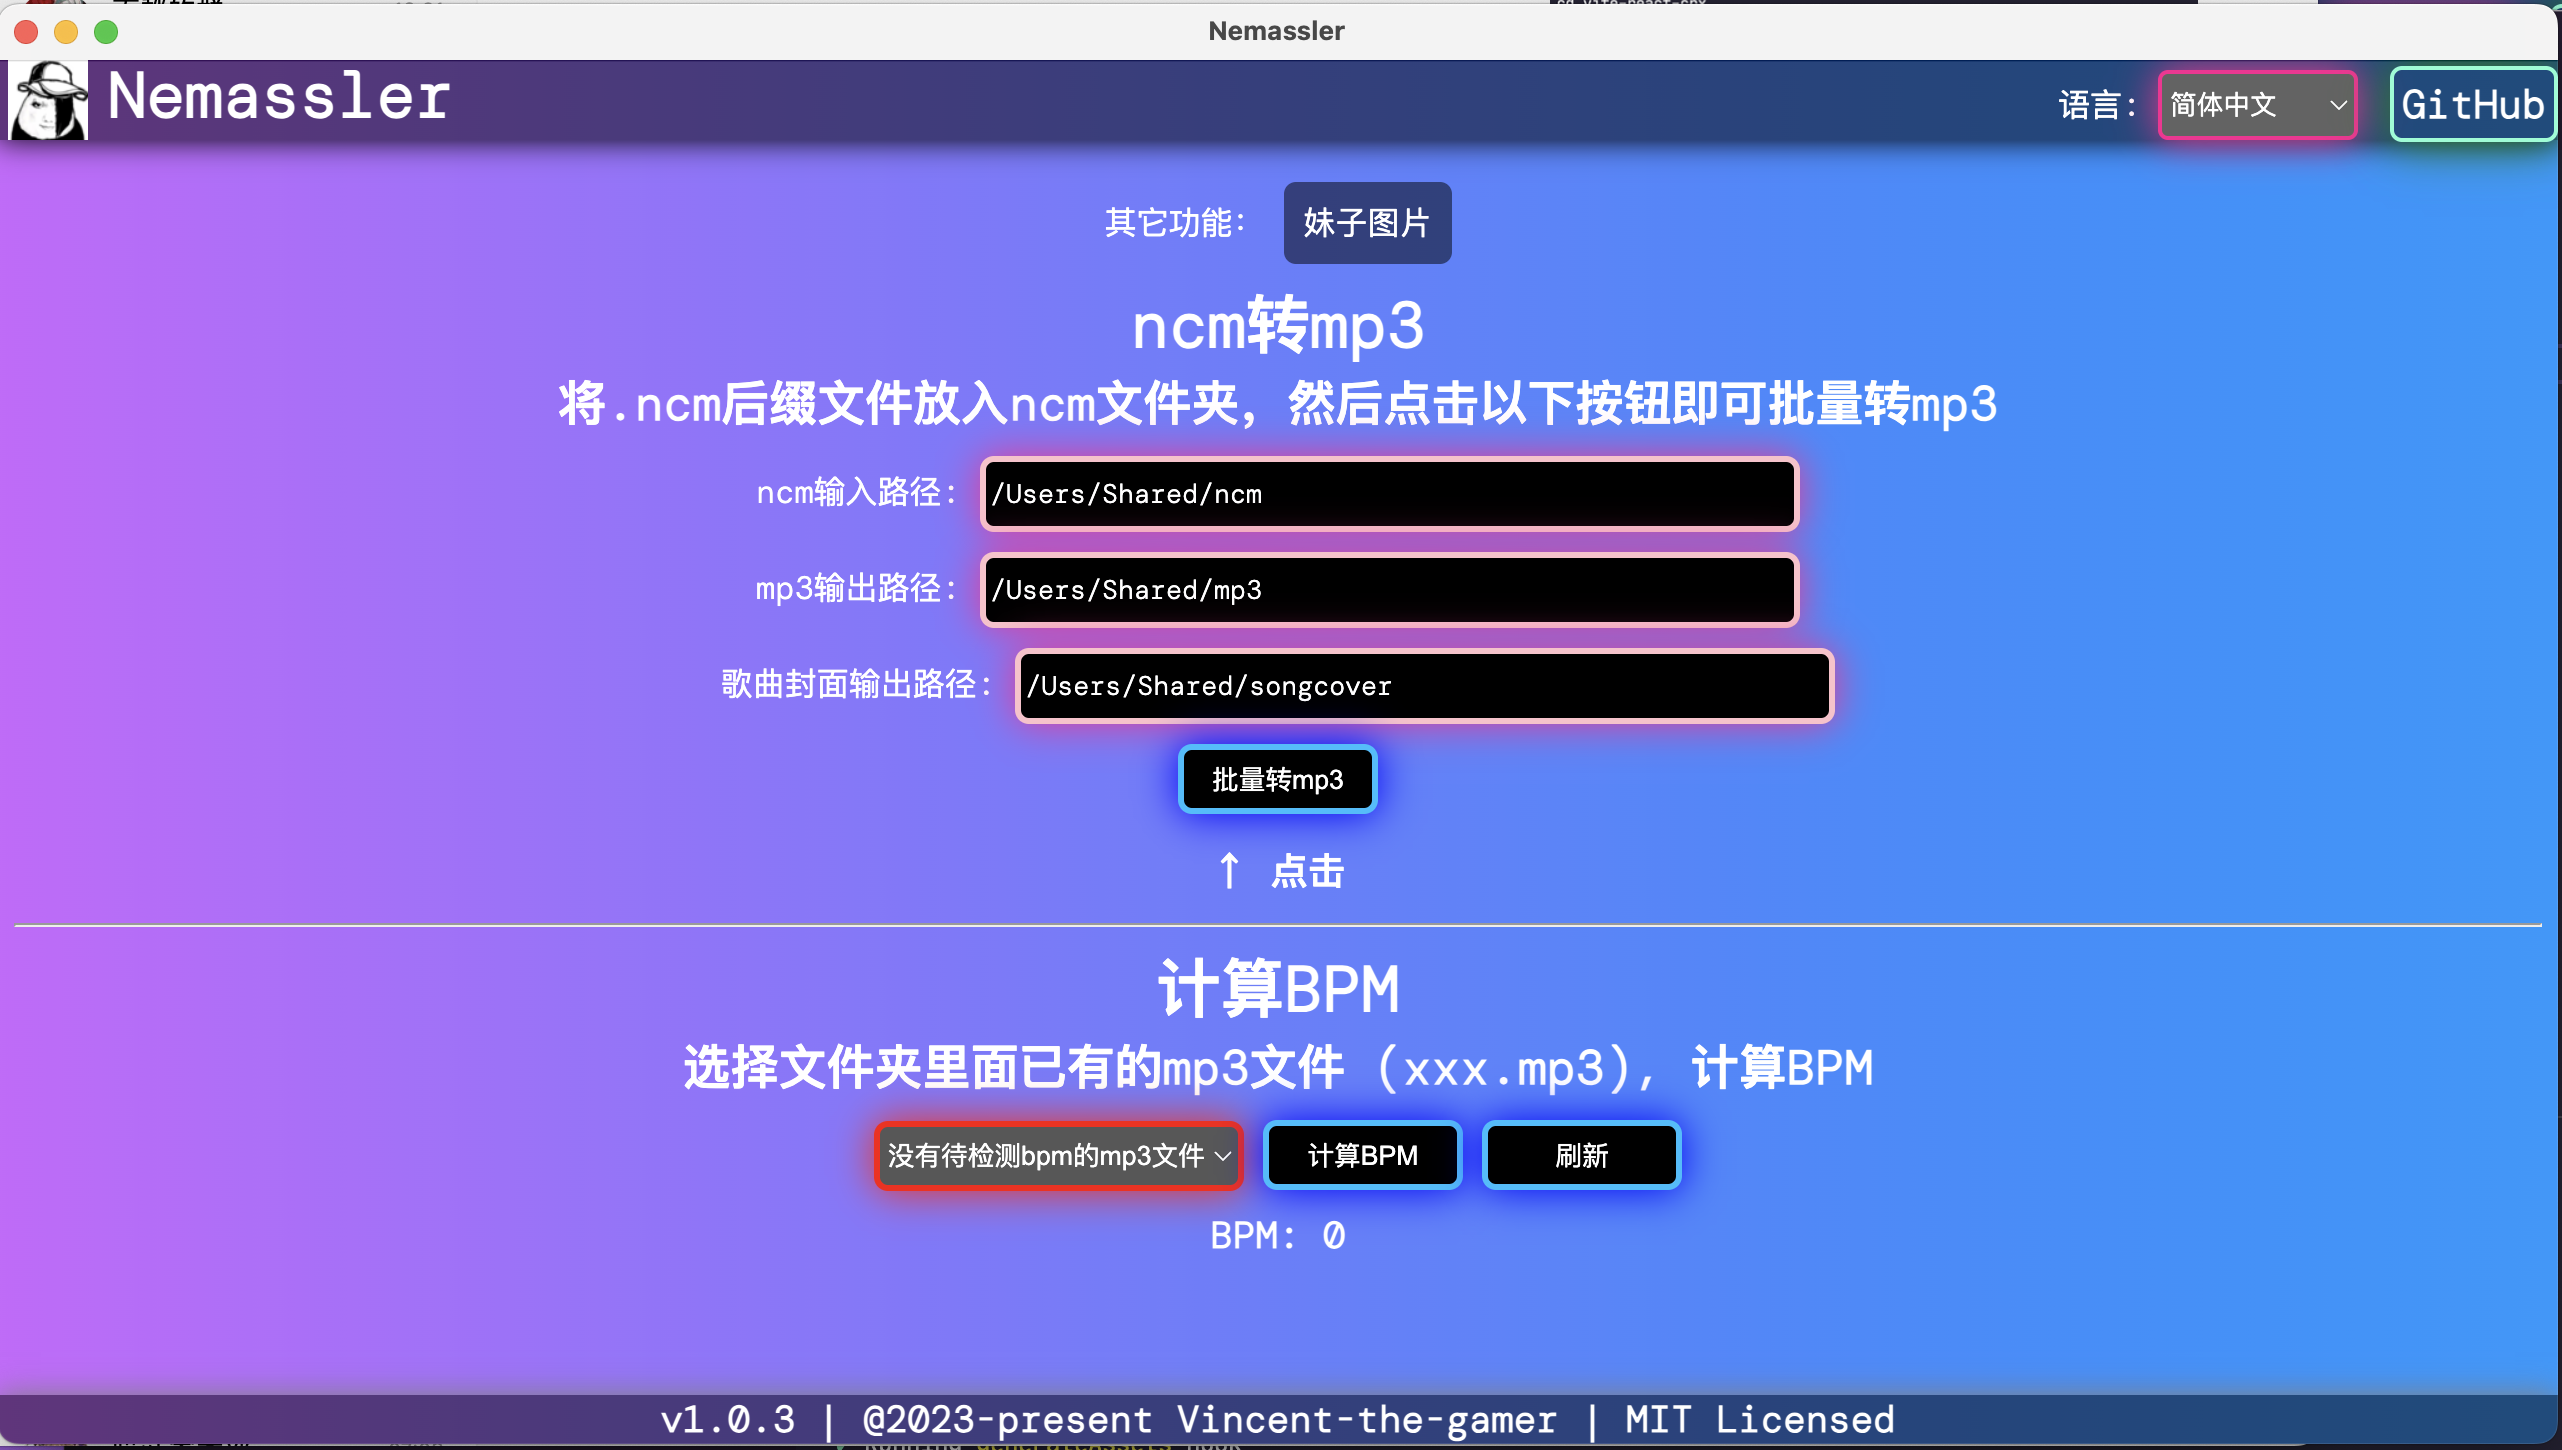
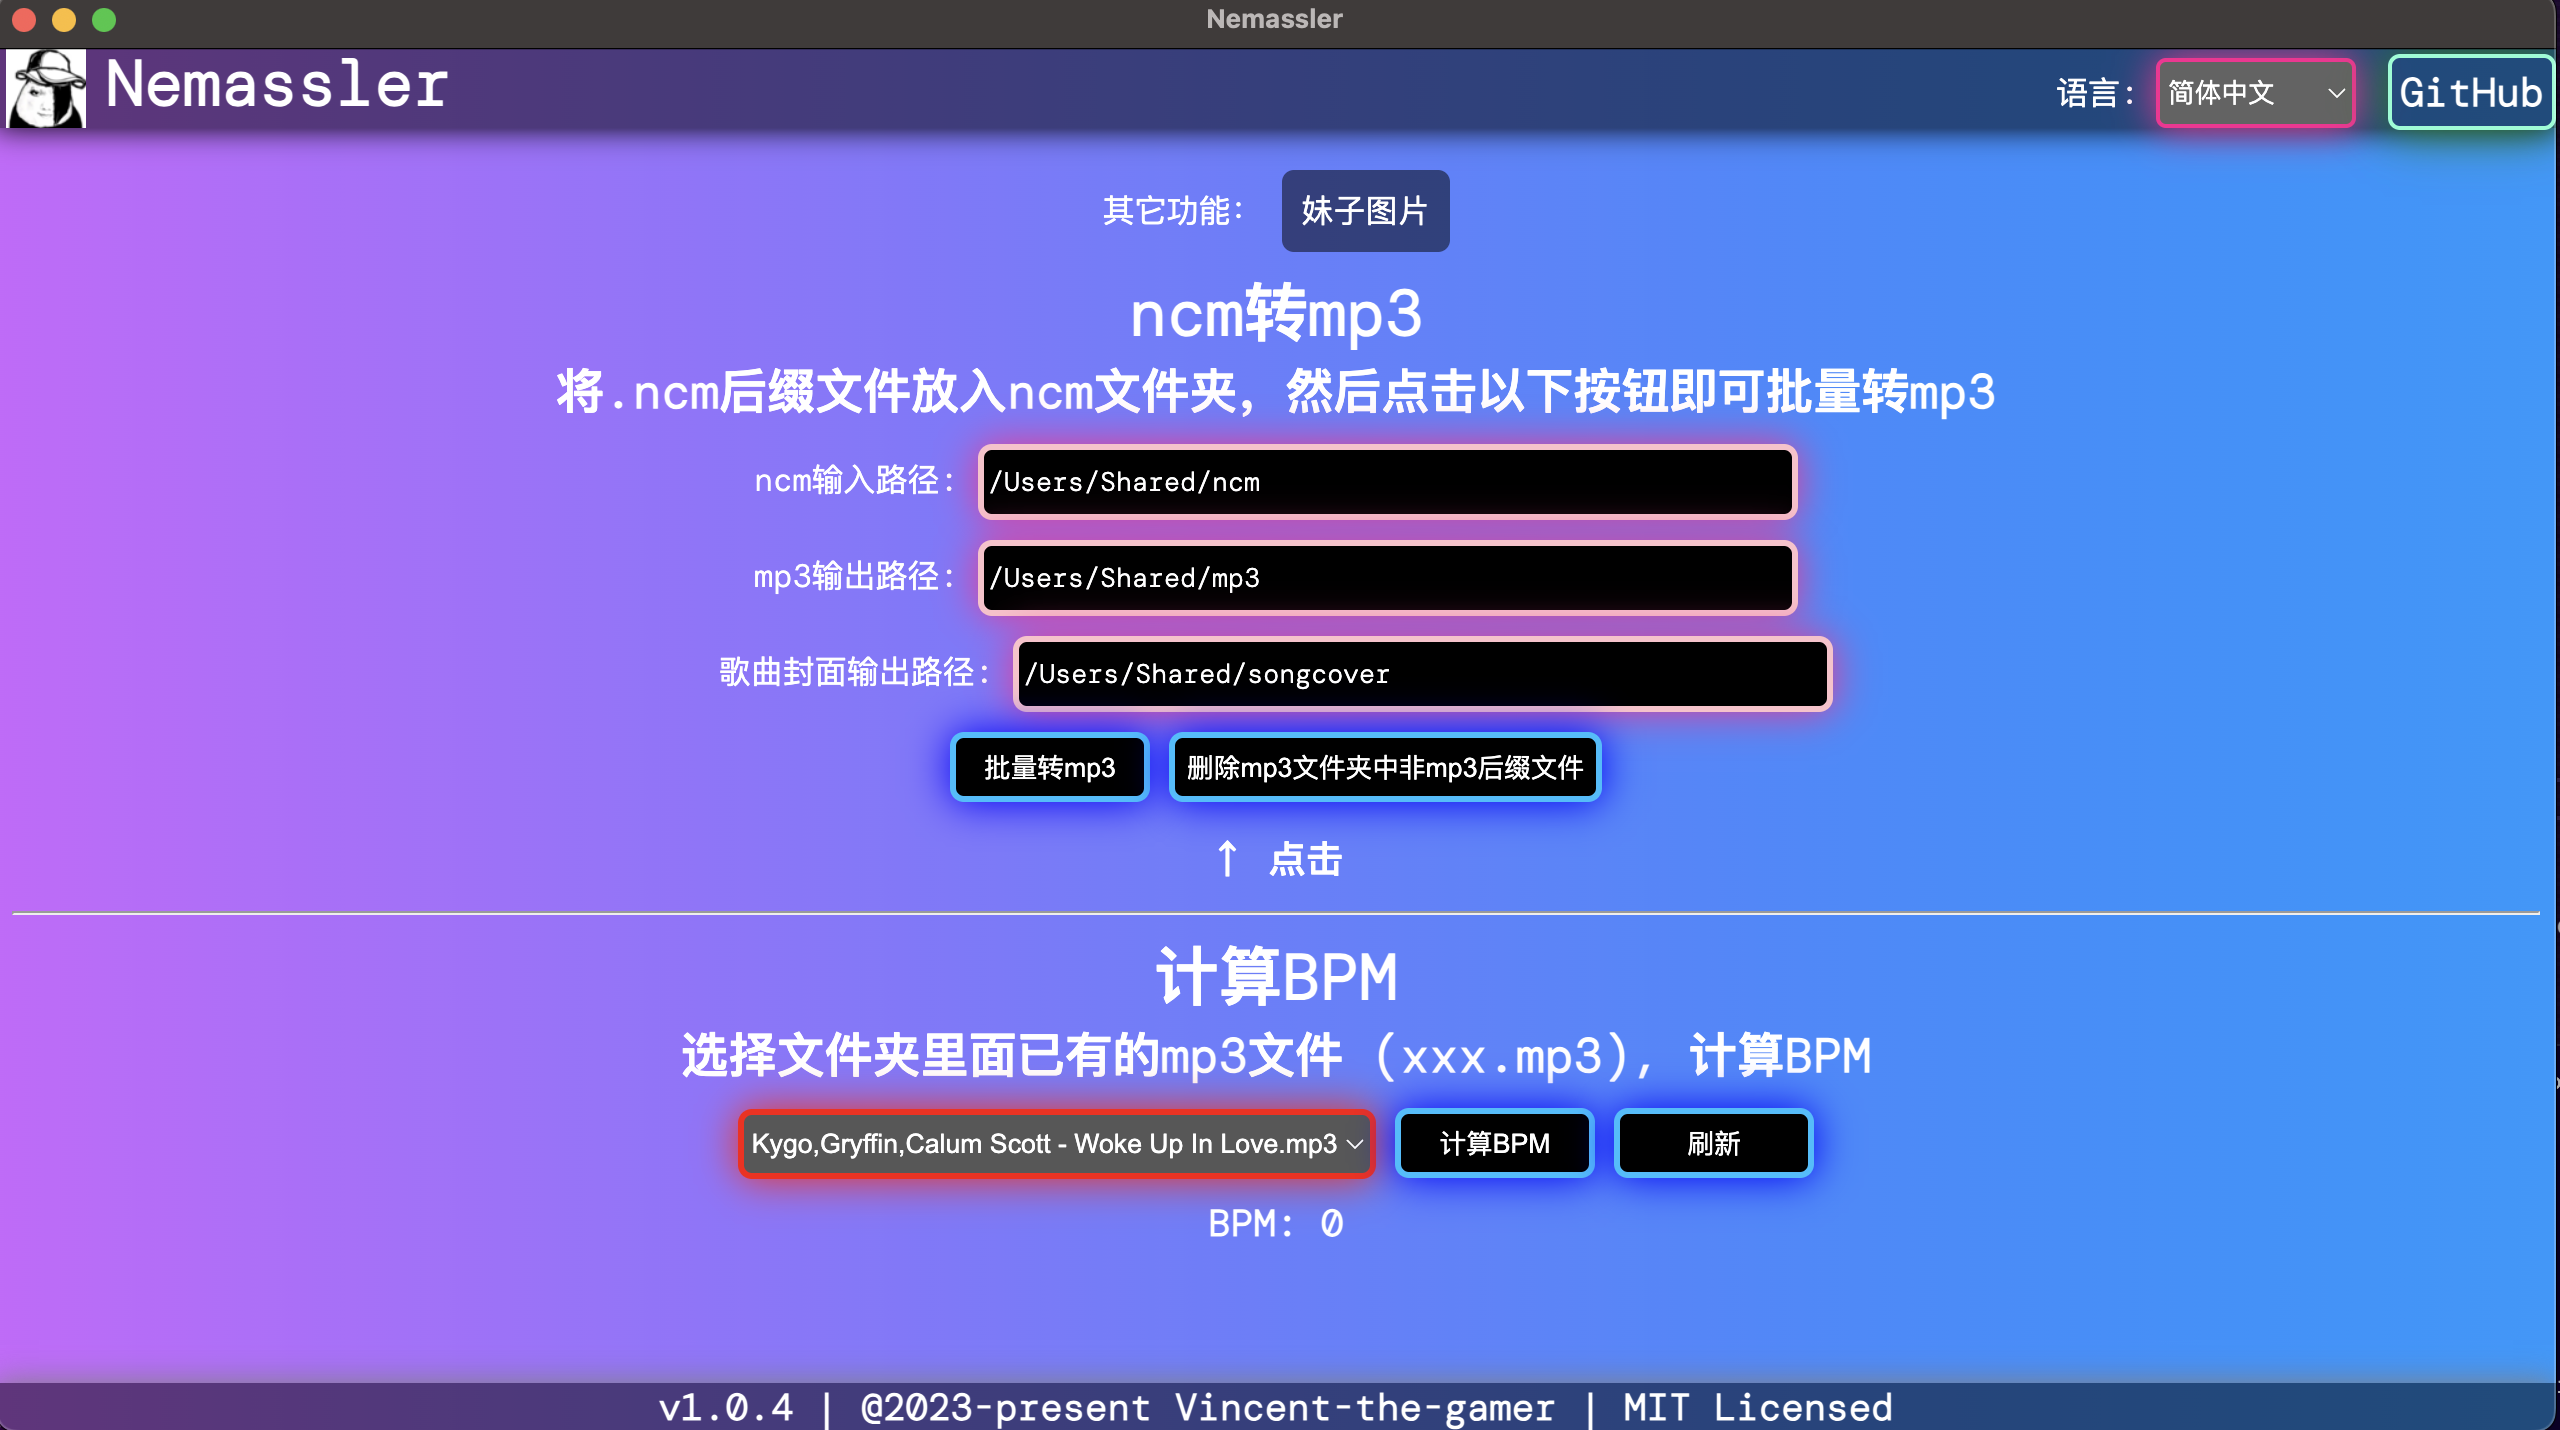
fix: bugs.

diff --git a/app.ts b/app.ts
@@ -1,49 +1,51 @@
 /**
  * Main Service
  */
-import path from "path"
-import express from "express"
-import readFiles from "./readFiles"
-import { ensureDirectoryExists, filterMp3 } from "./fileUtils"
-import axios from "axios"
-import ncm2mp3CustomDirectory from "./ncm2mp3"
+// @ts-ignore
+const path = require("path")
+const express = require("express")
+const readFiles = require("./readFiles.ts")
+// @ts-ignore
+const fileUtils = require("./fileUtils.ts")
+const axios = require("axios")
+const ncm2mp3 = require("./ncm2mp3.ts")
 
-const app = express()
+const expressApp = express()
 
-app.use( express.json() )
-app.use( express.urlencoded({ extended: false }) )
-app.use( express.static(
+expressApp.use(express.json())
+expressApp.use(express.urlencoded({ extended: false }))
+expressApp.use(express.static(
     path.resolve(__dirname, "./frontend/dist")
 ))
 
 /**
  * Cross Origin
  */
-app.all("*", (req: any, res: any, next: Function) => {
-    res.header("Access-Control-Allow-Origin","*");
+expressApp.all("*", (req, res, next) => {
+    res.header("Access-Control-Allow-Origin", "*");
     res.header("Access-Control-Allow-Headers", "Content-Type,XFILENAME,XFILECATEGORY,XFILESIZE");
-    res.header("Access-Control-Allow-Methods","PUT,POST,GET,DELETE,OPTIONS");
-    res.header("X-Powered-By",' 3.2.1');
+    res.header("Access-Control-Allow-Methods", "PUT,POST,GET,DELETE,OPTIONS");
+    res.header("X-Powered-By", ' 3.2.1');
     next();
 });
 
 
 // ncm to mp3
-app.post("/customNcm2mp3", async (req: any, res: any) => {
-    try{
+expressApp.post("/customNcm2mp3", async (req, res) => {
+    try {
         Promise.all([
-            ensureDirectoryExists(req.body.ncmDir),
-            ensureDirectoryExists(req.body.mp3OutDir),
-            ensureDirectoryExists(req.body.songCoverOutDir)
-        ]).then(([r1,r2,r3]) => {
-            ncm2mp3CustomDirectory(
+            fileUtils.ensureDirectoryExists(req.body.ncmDir),
+            fileUtils.ensureDirectoryExists(req.body.mp3OutDir),
+            fileUtils.ensureDirectoryExists(req.body.songCoverOutDir)
+        ]).then(([r1, r2, r3]) => {
+            ncm2mp3.ncm2mp3CustomDirectory(
                 req.body.ncmDir,
                 req.body.mp3OutDir,
                 req.body.songCoverOutDir
             )
         })
     }
-    catch(err){
+    catch (err) {
         res.send({
             code: 500,
             err
@@ -57,8 +59,8 @@ app.post("/customNcm2mp3", async (req: any, res: any) => {
 })
 
 // scan mp3 folder
-app.get("/readFiles",async (req: any, res: any) => {
-    const files = await readFiles(
+expressApp.get("/readFiles", async (req, res) => {
+    const files = await readFiles.readFiles(
         req.query.mp3Dir,
         req.query.ncmDir,
         req.query.songCoverDir
@@ -69,33 +71,33 @@ app.get("/readFiles",async (req: any, res: any) => {
 })
 
 // read mp3 file
-app.get("/getMp3File", (req: any, res: any) => {
+expressApp.get("/getMp3File", (req, res) => {
     const filePath = req.query.filePath
     res.sendFile(filePath)
 })
 
 // get anime girls picture
-app.post("/meizi", (req: any, res: any) => {
+expressApp.post("/meizi", (req, res) => {
     const { isR18, num, author_uuid, keyword, tag } = req.body
-    let url: string = `https://sex.nyan.xyz/api/v2?r18=${isR18}&num=${num}`
+    let url = `https://sex.nyan.xyz/api/v2?r18=${isR18}&num=${num}`
 
     author_uuid && (url += `&author_uuid=${author_uuid}`)
     keyword && (url += `&keyword=${keyword}`)
     tag && (url += `&tag=${tag}`)
-    
-    axios.get(url).then(({data}) => {
+
+    axios.get(url).then(({ data }) => {
         res.send(data)
     })
 })
 
 // filter mp3
-app.post("/filterMp3", async (req: any, res: any) => {
+expressApp.post("/filterMp3", async (req, res) => {
     const { directory } = req.body
-    const result = await filterMp3(directory)
+    const result = await fileUtils.filterMp3(directory)
     res.send(result)
 })
 
-app.listen(8080, () => {
+expressApp.listen(8080, () => {
     console.log("Server started at: http://127.0.0.1:8080")
 })
 

diff --git a/ncm2mp3.ts b/ncm2mp3.ts
@@ -1,13 +1,15 @@
 /**
  * netease music .ncm audio to mp3
  */
-import fs from "fs"
-import aes from "aes-js"
-import path from "path"
+// @ts-ignore
+const fs = require("fs")
+const aes = require("aes-js")
+// @ts-ignore
+const path = require("path")
 
 // 前置文件检查
-async function preCheck(ncmDir): Promise<any>{
-    return new Promise<void>((resolve, reject) => {
+async function preCheck(ncmDir){
+    return new Promise((resolve, reject) => {
         // 删除 macOS .DS_Store 文件
         if(fs.existsSync(ncmDir + "/.DS_Store")){
             fs.unlink(ncmDir + "/.DS_Store", (err) => {
@@ -33,11 +35,11 @@ async function preCheck(ncmDir): Promise<any>{
             })
         }
 
-        resolve()
+        resolve("")
     })
 }
 
-export default async function ncm2mp3CustomDirectory (ncmDir: string, mp3OutDir: string, songCoverOutDir: string) {
+module.exports.ncm2mp3CustomDirectory = async (ncmDir, mp3OutDir, songCoverOutDir) => {
     preCheck(ncmDir).then(success => {
         fs.readdir(path.resolve(__dirname, ncmDir), function (err, files) {
             files.forEach(v => {
@@ -133,7 +135,7 @@ export default async function ncm2mp3CustomDirectory (ncmDir: string, mp3OutDir:
                     const box = buildKeyBox(trimKeyData);
         
                     let n = 0x8000;
-                    let fmusic: Buffer[] = [];
+                    let fmusic = [];
                     while (n > 1) {
                         const buffer = Buffer.alloc(n);
                         n = file.copy(buffer, 0, globalOffset, globalOffset + n);
@@ -143,7 +145,7 @@ export default async function ncm2mp3CustomDirectory (ncmDir: string, mp3OutDir:
                             let j = (i + 1) & 0xff;
                             buffer[i] ^= box[(box[j] + box[(box[j] + j) & 0xff]) & 0xff];
                         }
-        
+                        // @ts-ignore
                         fmusic.push(buffer);
                     }
                     fs.writeFileSync(path.resolve(__dirname, mp3OutDir) + "/" + v.replace(/.ncm/, '.mp3'), Buffer.concat(fmusic));

diff --git a/readFiles.ts b/readFiles.ts
@@ -1,12 +1,15 @@
-import fs from "fs"
-import path from "path"
-import { ensureDirectoryExists } from "./fileUtils"
+// @ts-ignore
+const fileUtils = require("./fileUtils.ts")
+// @ts-ignore
+const fs = require("fs")
+// @ts-ignore
+const path = require("path")
 
-export default async function readFiles(mp3Dir: string, ncmDir: string, songCoverOutDir: string) {
+module.exports.readFiles = async (mp3Dir, ncmDir, songCoverOutDir) => {
     // ensure directories exist
-    await ensureDirectoryExists(mp3Dir)
-    await ensureDirectoryExists(ncmDir)
-    await ensureDirectoryExists(songCoverOutDir)
+    await fileUtils.ensureDirectoryExists(mp3Dir)
+    await fileUtils.ensureDirectoryExists(ncmDir)
+    await fileUtils.ensureDirectoryExists(songCoverOutDir)
 
     return new Promise((resolve, reject) => {
         fs.readdir(path.resolve(__dirname, mp3Dir), (err, files) => { 

diff --git a/main.ts b/main.ts
@@ -1,12 +1,19 @@
+// @ts-ignore
+if (require('electron-squirrel-startup')) return
+
+require('./app.ts')
+
+// @ts-ignore
 const { app, BrowserWindow, Menu } = require("electron")
+// @ts-ignore
 const path = require("path")
 
 function start() {
   // Hide Menu
   if(process.platform === "darwin"){
     // on macOS: Hide Menu by setting it to a empty array
-    const menu = Menu.buildFromTemplate([])
-    Menu.setApplicationMenu(menu)
+    // const menu = Menu.buildFromTemplate([])
+    // Menu.setApplicationMenu(menu)
   }
   else Menu.setApplicationMenu(null)
 
@@ -18,7 +25,7 @@ function start() {
     webPreferences:{ 
         nodeIntegration: true, 
         contextIsolation: false, 
-        // @ts-expect-error
+        // @ts-ignore
         enableRemoteModule: true, 
     },
   });

diff --git a/fileUtils.ts b/fileUtils.ts
@@ -1,7 +1,9 @@
-import fs from "fs"
-import path from "path"
+// @ts-ignore
+const fs = require("fs")
+// @ts-ignore
+const path = require("path")
 
-export async function ensureDirectoryExists(directory: string) {
+module.exports.ensureDirectoryExists = async (directory) => {
     return new Promise((resolve, reject) => {
         if (!fs.existsSync(directory)) {
             fs.mkdir(directory, {recursive:true}, (err) => {
@@ -15,7 +17,7 @@ export async function ensureDirectoryExists(directory: string) {
 /**
  * 删除mp3文件夹中非mp3文件
  */
-export async function filterMp3(directory: string): Promise<string> {
+module.exports.filterMp3 = async(directory) => {
     if (!fs.existsSync(directory)) {
        return Promise.reject("未找到路径！directory not found!")
     }

diff --git a/README.md b/README.md
@@ -25,7 +25,7 @@
 ## Installation
 Download application from Release: 
 
-**Latest Version: v1.0.3**
+**Latest Version: v1.0.4**
 
 [https://github.com/Vincent-the-gamer/Nemassler/releases](https://github.com/Vincent-the-gamer/Nemassler/releases)
 

diff --git a/README_ZH.md b/README_ZH.md
@@ -24,7 +24,7 @@
 ## 安装
 下载构建好的程序: 
 
-**最新版本: v1.0.3**
+**最新版本: v1.0.4**
 
 [https://github.com/Vincent-the-gamer/Nemassler/releases](https://github.com/Vincent-the-gamer/Nemassler/releases)
 
